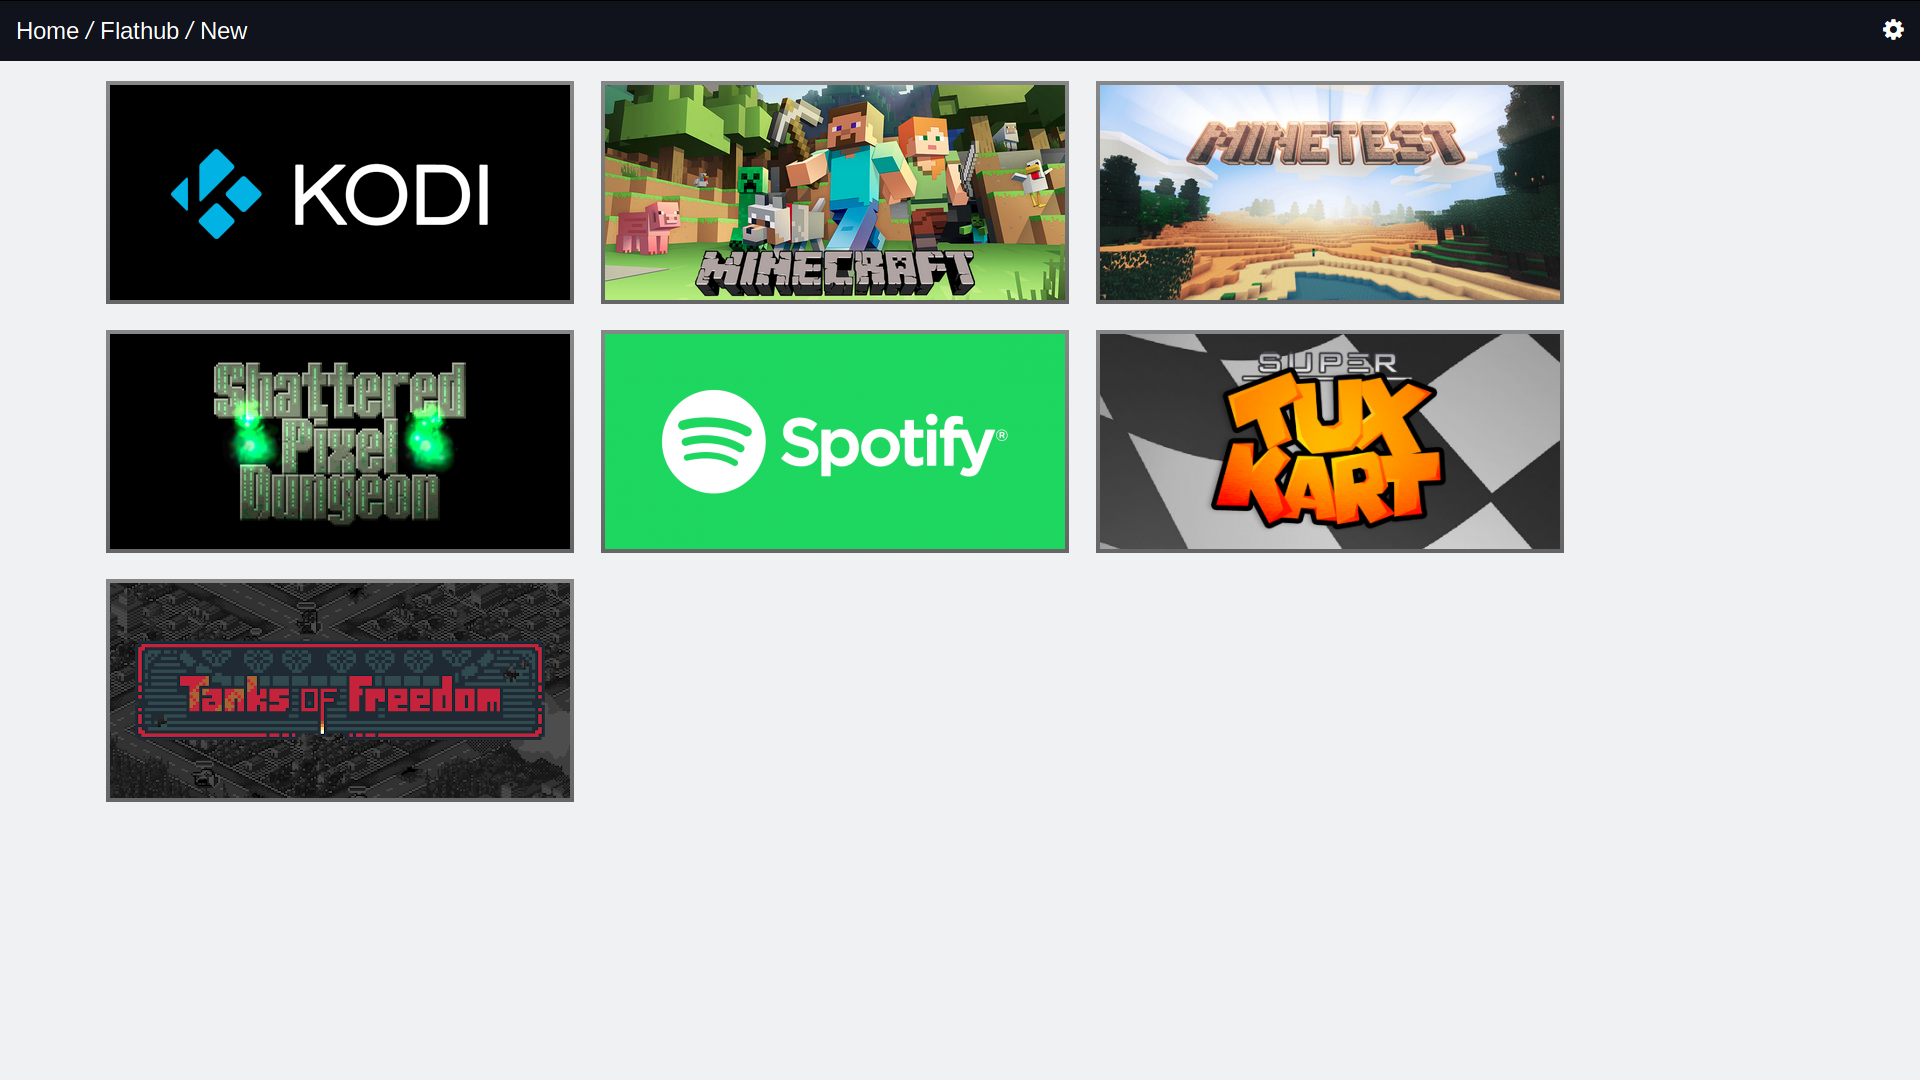
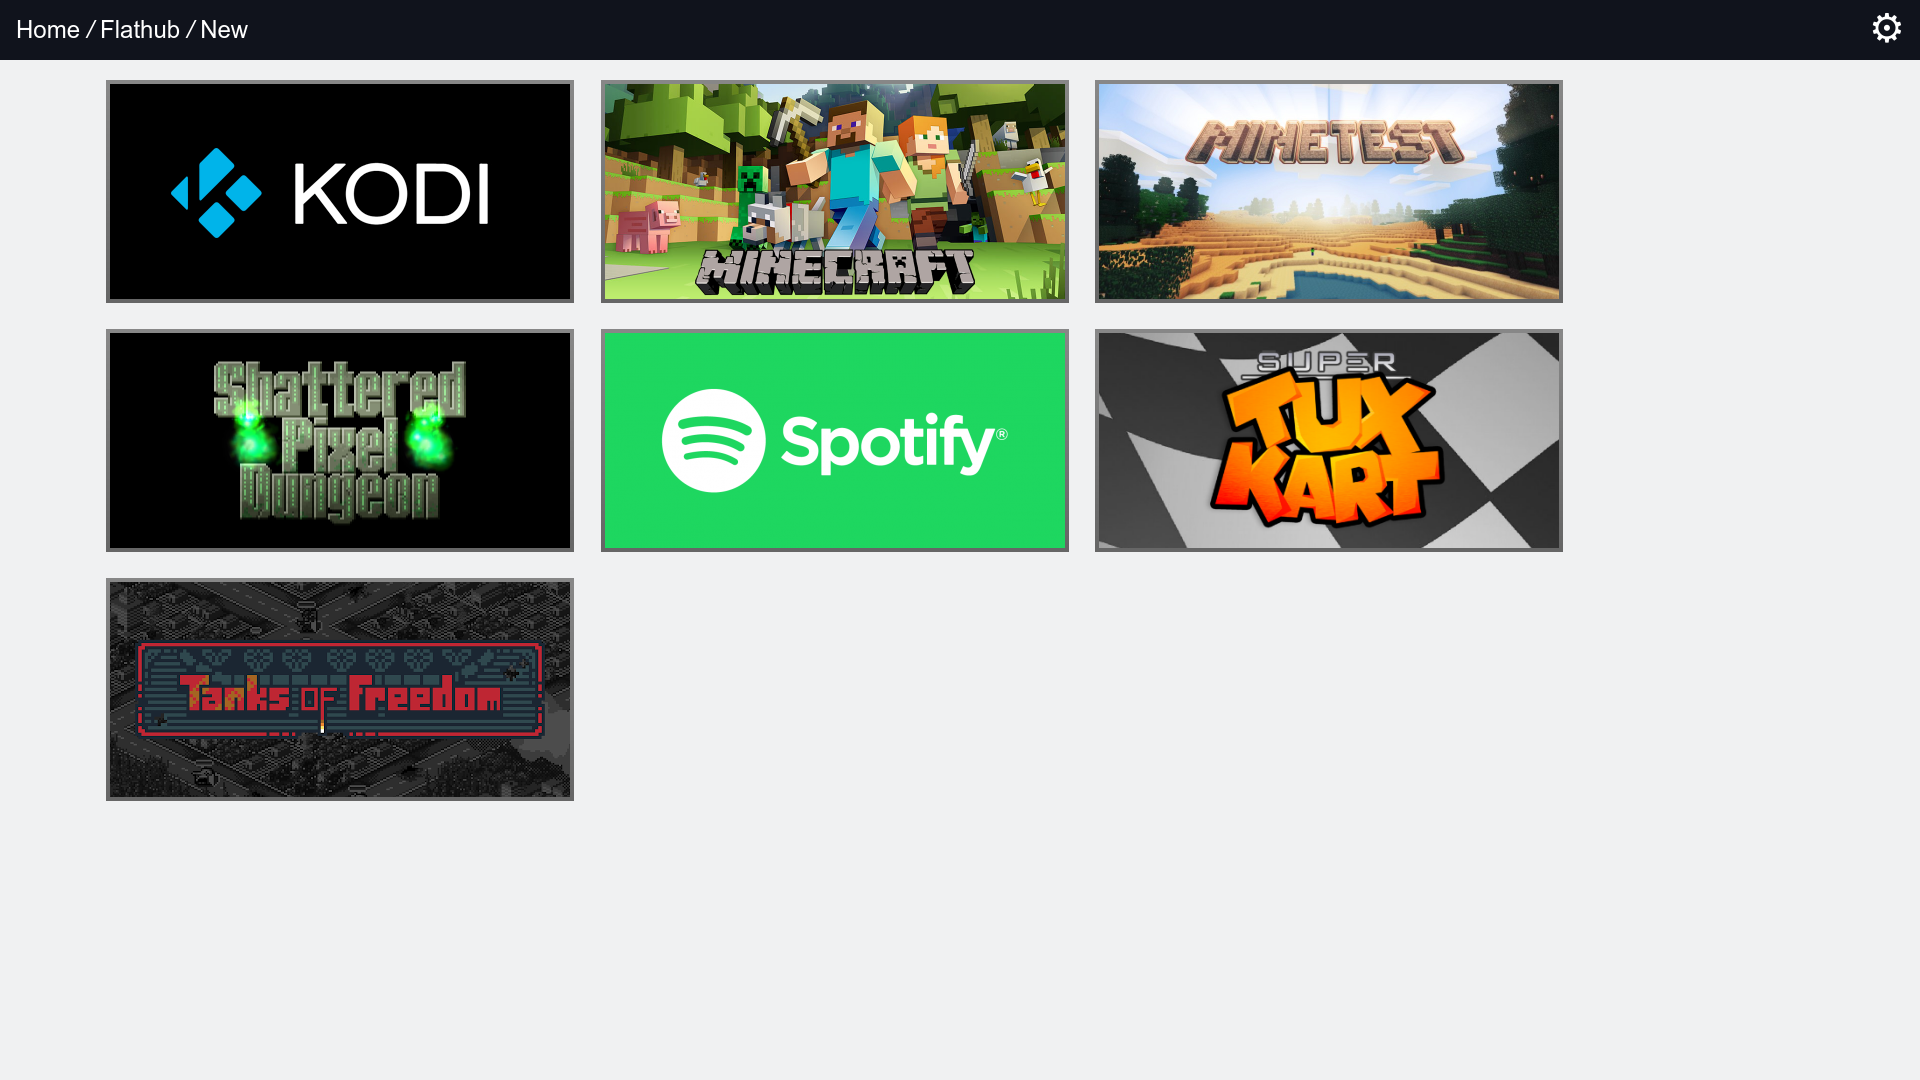
Added script to update screenshots and updated screenshots (#32)
* Added script for renewing screenshots

* Moved Atari 2600 to appear after the Flathub platform

* Updated create-screenshots script

* Updated screenshots

* Added Atari 2600 to README

* Revert "Moved Atari 2600 to appear after the Flathub platform"

This reverts commit b699b13193e616824383b929cd3de2139f53b36c.

* Updated screenshots

diff --git a/README.md b/README.md
@@ -13,6 +13,7 @@ A limited set of applications from flathub are available for immediate installat
 You can upload roms and banner images to Steam Buddy and they will be added to Steam. The emulators are pre-configured and ready to play out of the box with almost any controller.
 
 The following platforms are currently supported:
+- Atari 2600
 - Game Boy
 - Game Boy Advance
 - Game Boy Color
